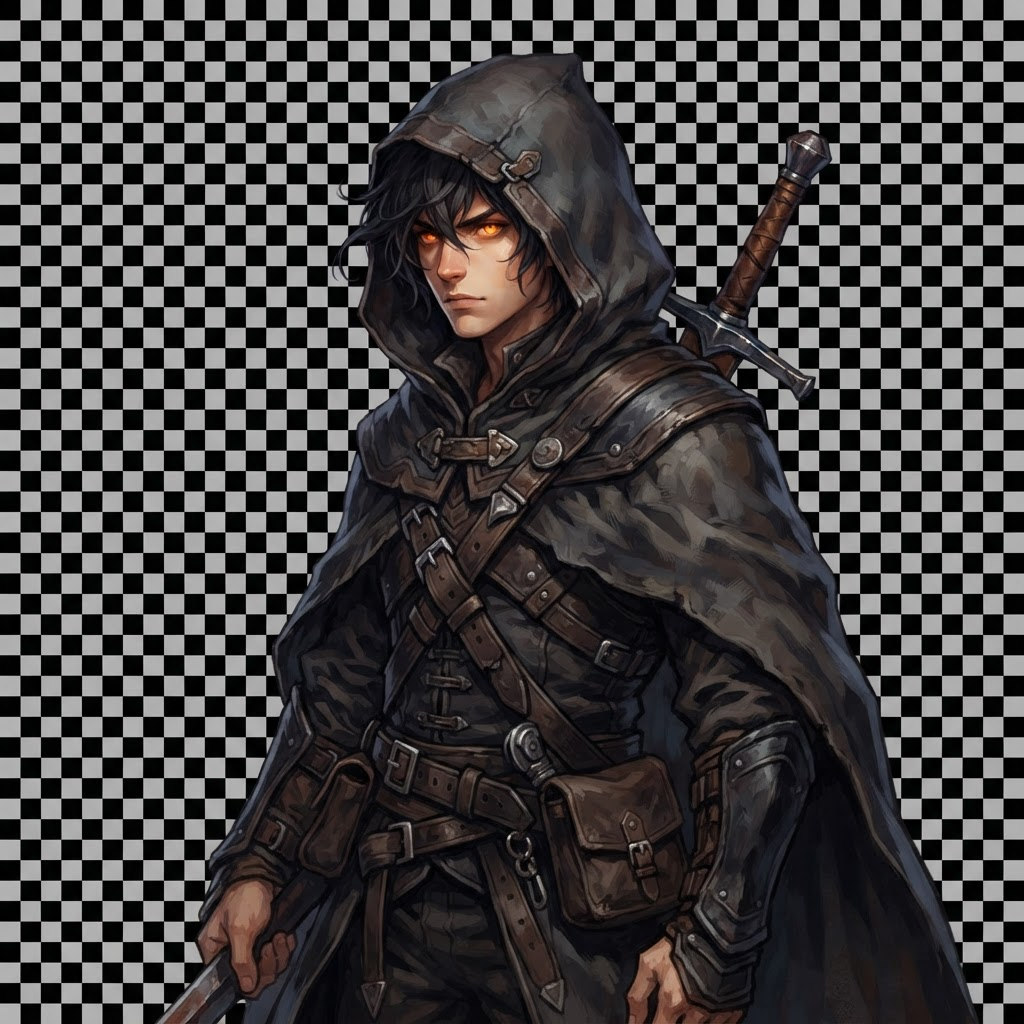
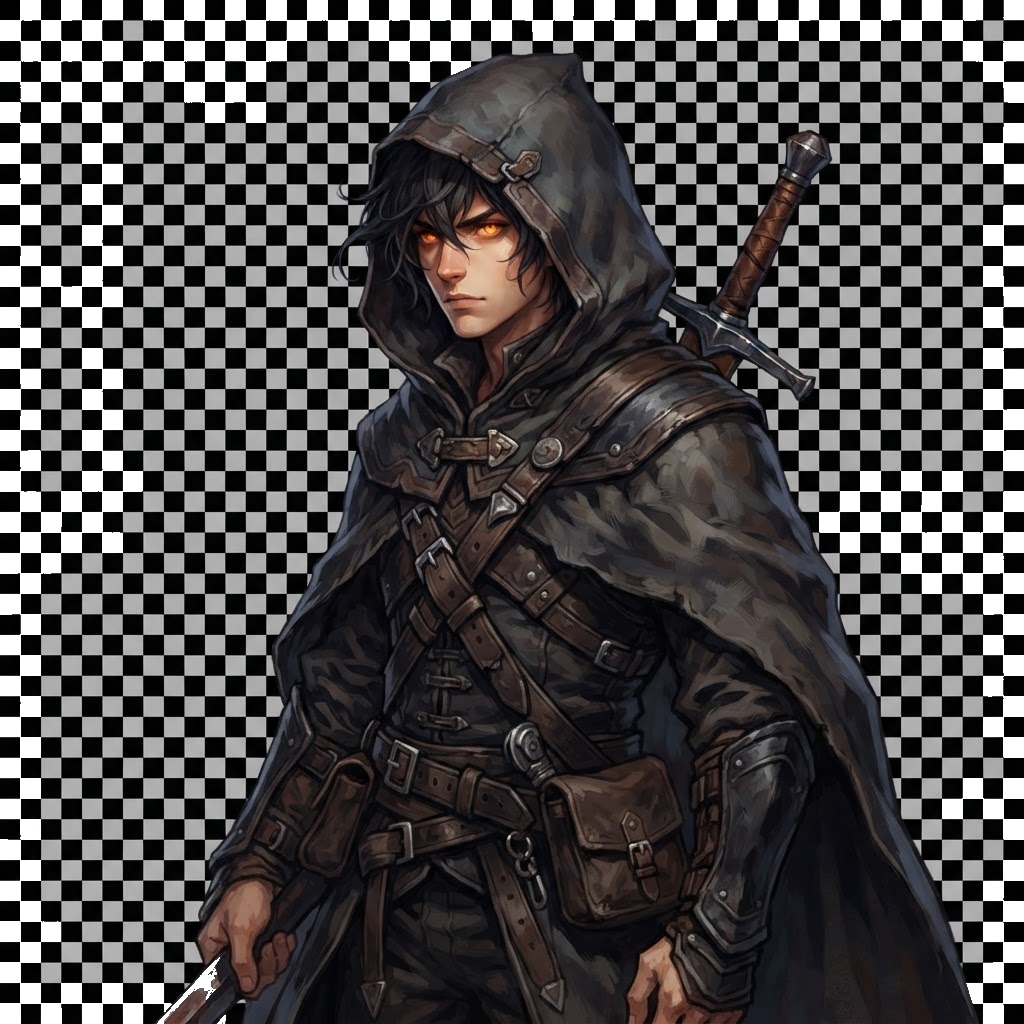
feat: update character art masks and blend mode
Updated character art masks and removed mix-blend-mode for better visuals

Changed region(s): [[0.0, 0.0, 1.0, 1.0], [0.1875, 0.9375, 0.2188, 0.9688]]

diff --git a/src/styles.css b/src/styles.css
@@ -373,10 +373,9 @@
   margin: 0;
   filter: drop-shadow(.35rem .7rem .65rem rgb(0 0 0 / .7));
   isolation: isolate;
-  mix-blend-mode: screen;
   pointer-events: none;
 }
-.fantasy-character-art { display: block; width: 100%; height: 100%; object-fit: cover; object-position: top center; -webkit-mask-image: linear-gradient(90deg, transparent 0%, black 9%, black 88%, transparent 100%), linear-gradient(180deg, black 88%, transparent 100%); -webkit-mask-composite: source-in; mask-image: linear-gradient(90deg, transparent 0%, black 9%, black 88%, transparent 100%), linear-gradient(180deg, black 88%, transparent 100%); mask-composite: intersect; }
+.fantasy-character-art { display: block; width: 100%; height: 100%; object-fit: cover; object-position: top center;   -webkit-mask-image: linear-gradient(90deg, transparent 0%, black 7%, black 93%, transparent 100%), linear-gradient(180deg, black 92%, transparent 100%); -webkit-mask-composite: source-in; mask-image: linear-gradient(90deg, transparent 0%, black 7%, black 93%, transparent 100%), linear-gradient(180deg, black 92%, transparent 100%); mask-composite: intersect; }
 .fantasy-character-sigil { display: none; }
 .fantasy-character-dialogue {
   flex: 1;
